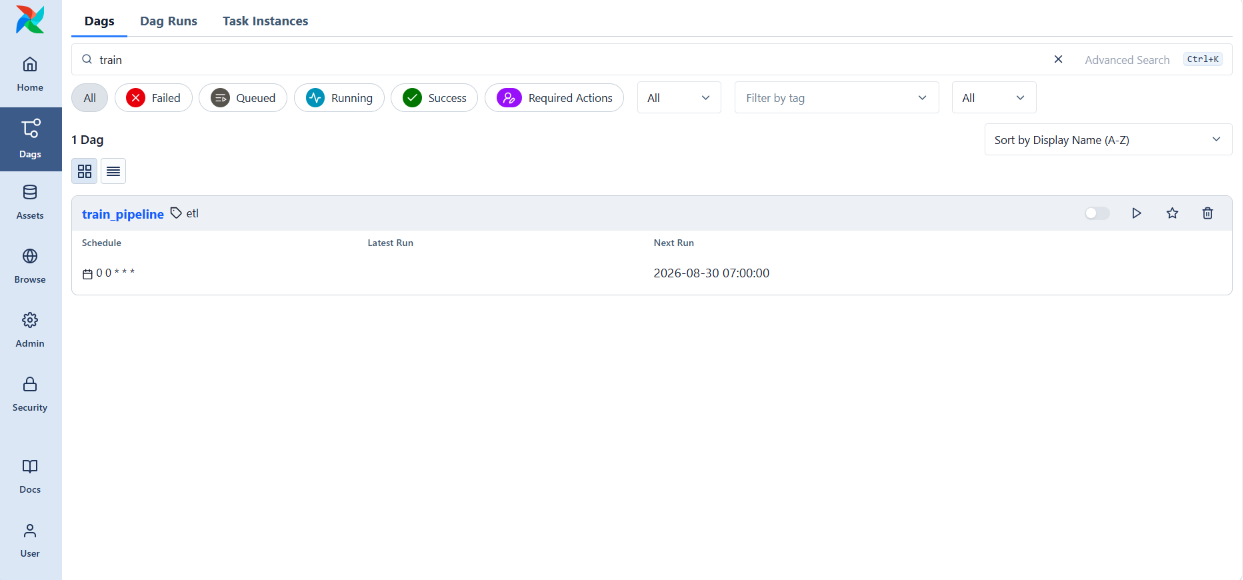
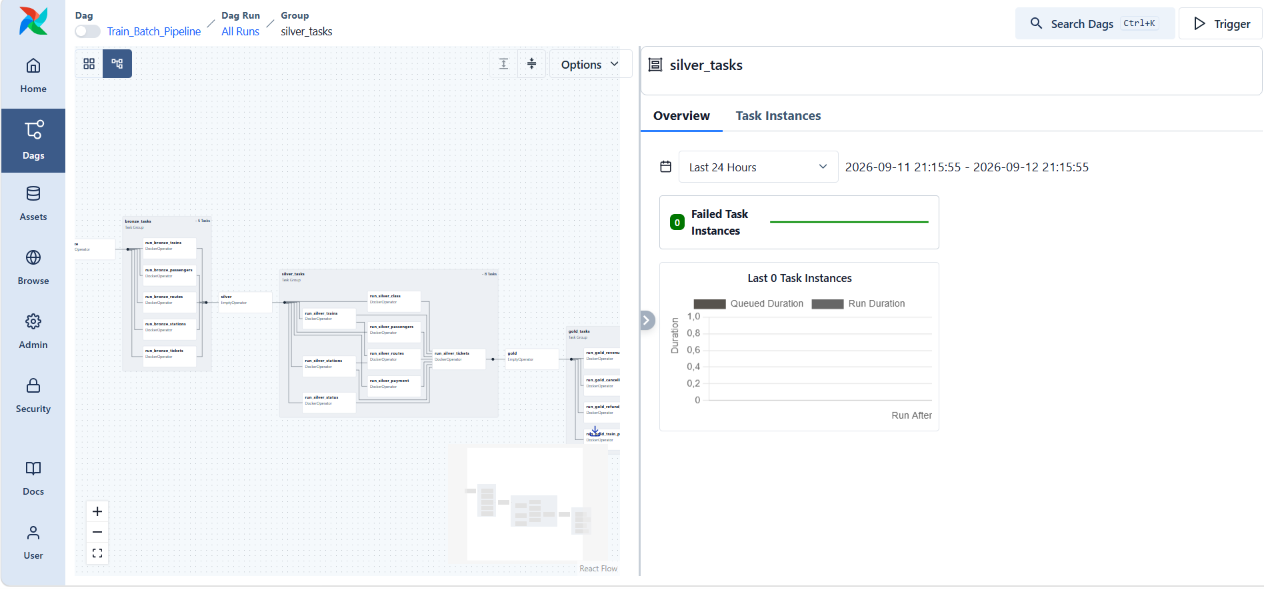
fix bugs dependencies on dags]

diff --git a/airflow/dags/train_pipeline.py b/airflow/dags/train_pipeline.py
@@ -122,43 +122,30 @@ def train_pipeline():
             network_mode="data_eng_net",
             mount_tmp_dir=False,
             mounts=[make_mount()],
-            auto_remove="force",
+            auto_remove="force"
         )
 
     def make_empty_task(task_id: str) -> EmptyOperator:
         return EmptyOperator(task_id=task_id)
 
     def build_task(
-        stage_task: Dict[str, deque],
-        task_map: Dict[str, str],
+        task_map: Dict[str, DockerOperator],
         stage: StageType,
         table_name: str,
         data_quality_enabled: bool = True,
-        primary_task: object = None,
     ):
         task = task_map.get(table_name)
+
         if not task:
-            task_map[table_name] = make_spark_job(
+            task = make_spark_job(
                 stage, table_name, data_quality_enabled
             )
-            stage_task[stage].append(task)
-            return None
+            task_map[table_name] = task
 
-        if (
-            primary_task
-            and task in stage_task[stage]
-            and primary_task in stage_task[stage]
-        ):
-            primary_index = stage_task[stage].index(primary_task)
-            dep_index = stage_task[stage].index(task)
+        return task
 
-            if dep_index > primary_index:
-                stage_task[stage].remove(task)
-                stage_task[stage].insert(
-                    primary_index - 1, task
-                )
 
-    def make_task_group(stage: StageType, stage_task: Dict[str, deque]) -> task_group:
+    def make_task_group(stage: StageType) -> task_group:
 
         @task_group(group_id=f"{stage}_tasks")
         def task_group_stage(stage: str):
@@ -166,36 +153,57 @@ def train_pipeline():
             task_map = {}
 
             for table_name in TABLE_CONFIG.get_tablenames(stage):
-                primary_task = build_task(
-                    stage_task=stage_task,
-                    task_map=task_map,
-                    stage=stage,
-                    table_name=table_name,
+                build_task(task_map, stage, table_name)
+
+            
+            for table_name in TABLE_CONFIG.get_tablenames(stage):
+
+                current_task = build_task(
+                    task_map,
+                    stage,
+                    table_name
                 )
 
-                dependency_tables = TABLE_CONFIG.get_table_deps(table_name, stage)
-                for dep_table in (
-                    dependency_tables[table_name] if dependency_tables else []
-                ):
-                    if dep_table.namespace != stage:
-                        continue
+                table_deps = TABLE_CONFIG.get_table_deps(
+                    table_name,
+                    stage
+                )
 
-                    dep_task = build_task(
-                        stage_task=stage_task,
-                        task_map=task_map,
-                        stage=stage,
-                        table_name=table_name,
-                        primary_task=primary_task,
+                if not table_deps:
+                    continue
+
+                for name, deps in table_deps.items():
+
+                    current_task = build_task(
+                        task_map,
+                        stage,
+                        name
                     )
 
-        return stage_task
+                    for dep in deps:
+
+                        if dep.namespace != stage:
+                            continue
+
+                        dep_task = build_task(
+                            task_map,
+                            stage,
+                            dep.name
+                        )
+
+                        chain(
+                            dep_task,
+                            current_task
+                        )
+                        
+
+        return task_group_stage(stage)
 
 
-    stages = PIPELINE_CONFIG.stages
-    stage_task = {"bronze": deque(), "silver": deque(), "gold": deque()}
+    bronze = make_task_group("bronze")
+    silver = make_task_group("silver")
+    gold = make_task_group("gold")
 
-    bronze_stage = make_task_group("bronze", stage_task)
-
-    chain(*stage_task["bronze"])
+    make_empty_task("bronze") >> bronze >> make_empty_task("silver") >> silver >> make_empty_task("gold") >> gold
 
 train_pipeline()
